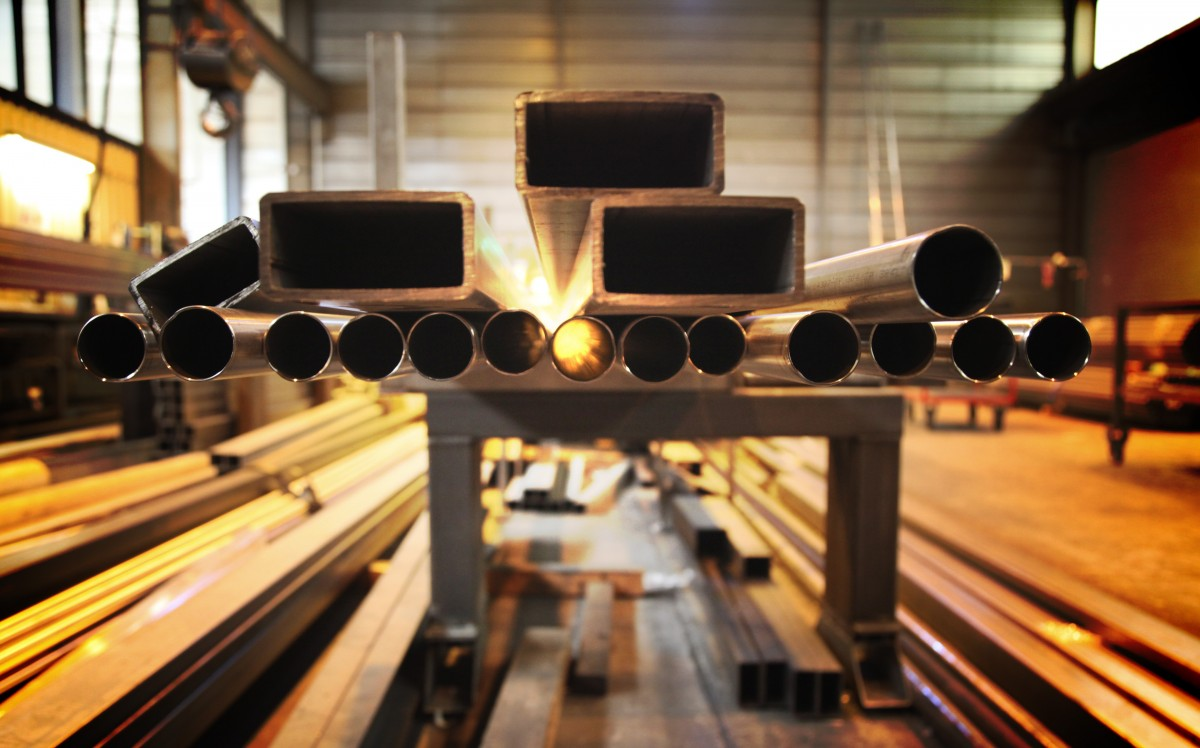
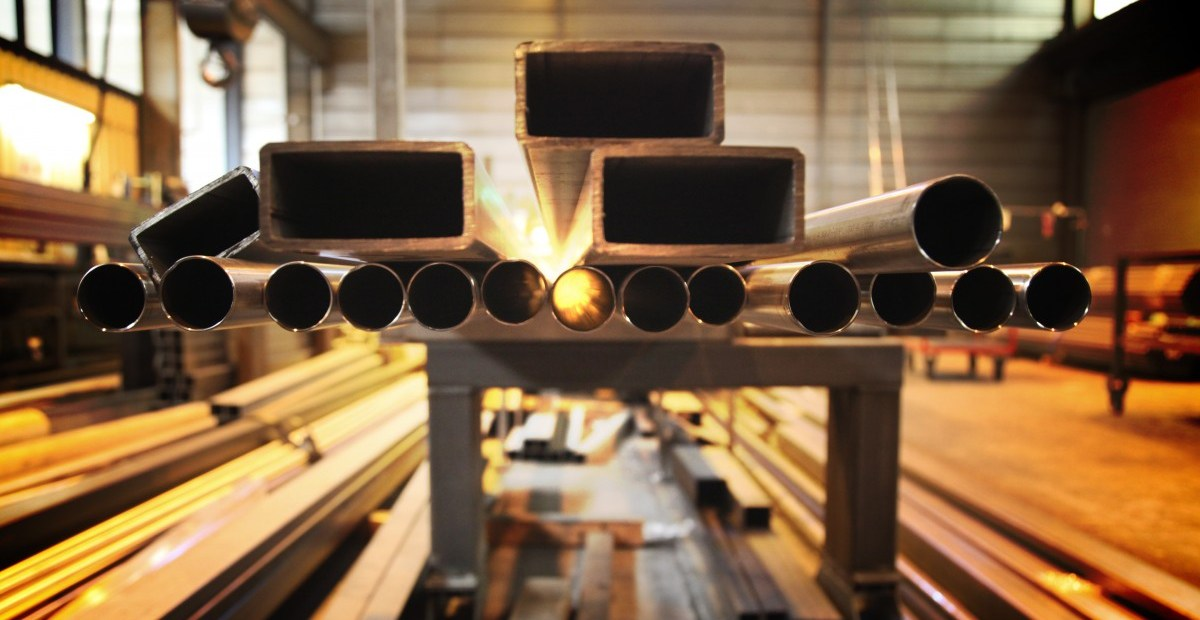
main text added and images corrected

diff --git a/index.html b/index.html
@@ -5,7 +5,7 @@
 
     <meta charset="utf-8">
     <meta name="viewport" content="width=device-width, initial-scale=1, shrink-to-fit=no">
-    <meta name="description" content="Brij Steel has years of experience in supplying quality and long lasting Iron and Steel products.">
+    <meta name="description" content="Brij Steel has years of experience in supplying high quality and long lasting Iron and Steel products.">
 
     <title>Brij Steel</title>
 
@@ -18,36 +18,6 @@
   </head>
 
   <body>
-
-    <!-- Navigation -->
-    <!--
-	<nav class="navbar navbar-expand-lg navbar-dark bg-dark fixed-top">
-      <div class="container">
-        <a class="navbar-brand" href="#">Start Bootstrap</a>
-        <button class="navbar-toggler" type="button" data-toggle="collapse" data-target="#navbarResponsive" aria-controls="navbarResponsive" aria-expanded="false" aria-label="Toggle navigation">
-          <span class="navbar-toggler-icon"></span>
-        </button>
-        <div class="collapse navbar-collapse" id="navbarResponsive">
-          <ul class="navbar-nav ml-auto">
-            <li class="nav-item active">
-              <a class="nav-link" href="#">Home
-                <span class="sr-only">(current)</span>
-              </a>
-            </li>
-            <li class="nav-item">
-              <a class="nav-link" href="#">About</a>
-            </li>
-            <li class="nav-item">
-              <a class="nav-link" href="#">Services</a>
-            </li>
-            <li class="nav-item">
-              <a class="nav-link" href="#">Contact</a>
-            </li>
-          </ul>
-        </div>
-      </div>
-    </nav>
-	-->
 
     <!-- Page Content -->
     <div class="container">
@@ -62,20 +32,15 @@
         <!-- /.col-lg-8 -->
         <div class="col-lg-4">
           <h1><i>Brij</i> Steel</h1>
-          <p>This is a template that is great for small businesses. It doesn't have too much fancy flare to it, but it makes a great use of the standard Bootstrap core components. Feel free to use this template for any project you want!</p>
+		  <p><i>garg.chand06 [at] gmail.com / +91-9911490583</i></p>
+          <p>With years of experience in supplying high quality and long lasting Iron and Steel products, Brij Steel aims to be a leading and trusted name in the field.</p>
+		  <p>We offer wide range of steel products which includes pipes, angles, flat, bars, sheets, wires & nettings and other shape and sections. Strong values and quality customer experience is the backbone of our business.</p>
+		  
         </div>
         <!-- /.col-md-4 -->
       </div>
       <!-- /.row -->
 
-      <!-- Call to Action Well -->
-	  <!--
-      <div class="card text-white bg-secondary my-4 text-center">
-        <div class="card-body">
-          <p class="text-white m-0">This call to action card is a great place to showcase some important information or display a clever tagline!</p>
-        </div>
-      </div>
-	  -->
 
       <!-- Content Row -->
       <div class="row">
@@ -110,6 +75,36 @@
       </div>
       <!-- /.row -->
 
+	  <!-- Call to Action Well -->
+	  
+      <div class="card text-white bg-secondary my-4 text-center">
+        <div class="card-body">
+          <p class="text-white m-0">The finest steel has to go through the hottest fire. - Richard M. Nixon</p>
+        </div>
+      </div>
+	  
+	  <!-- Second Row -->
+      <div class="row my-4">
+        <div class="col-lg-8">
+          <img class="img-fluid rounded" src="sspipe2.jpg" alt="">
+		  <center style="font-size:10px">Image Credits: pxhere.com</center>
+		  <br/>
+        </div>
+        <!-- /.col-lg-8 -->
+        <div class="col-lg-4">
+		  <br/>
+          <h4>Contact Us</h4>
+		  <br/>
+		  <p><strong>Chandranshu Garg</strong><br/>Email Id: garg.chand06 [at] gmail.com<br/>Mobile No: +91-9911490583<br/>
+			Old G.T. Road, Near Syndicate Bank<br/>Kosi Kalan, Mathura - 281403<br/><br/>
+			<i>Office Time: 10 a.m. to 6 p.m.
+		  </p>
+        </div>
+        <!-- /.col-md-4 -->
+      </div>
+      <!-- /.row -->
+	  
+	  
     </div>
     <!-- /.container -->
 
